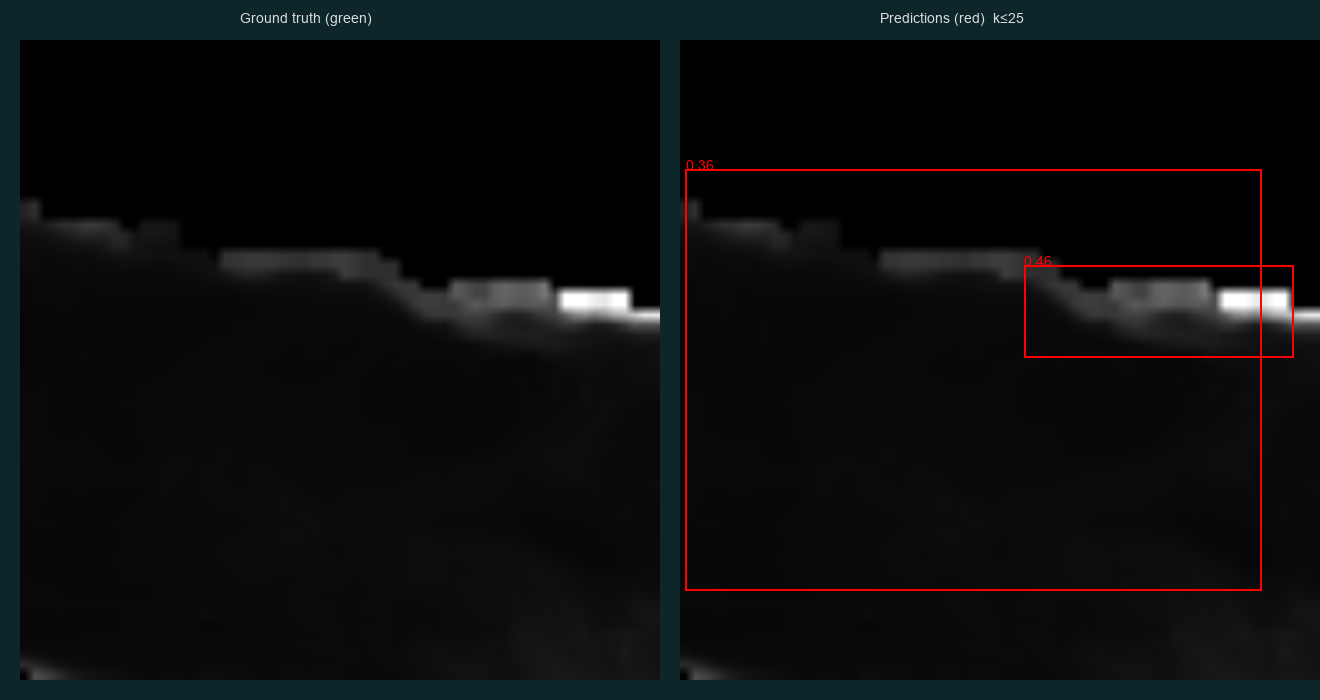
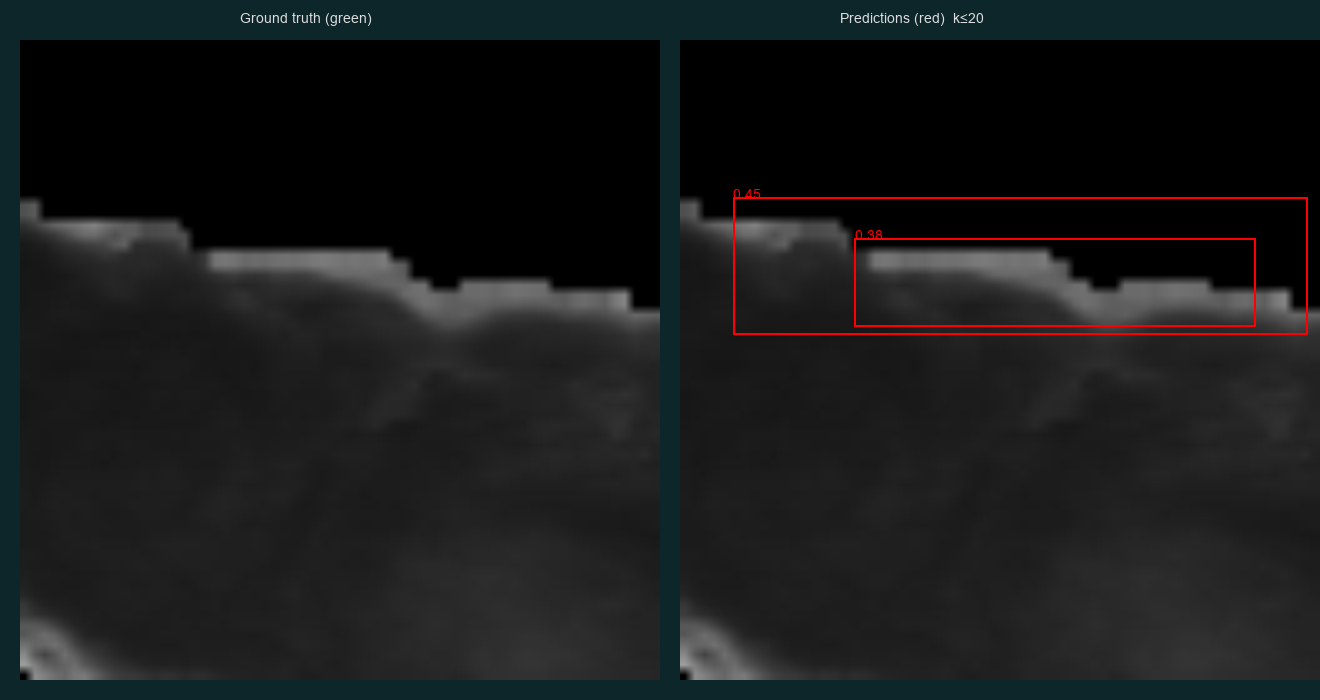
Fixed eval_ap and vis_preds scripts, ran visuals with FRCNN and MobileNet, need to do SSD training and compare all 3

diff --git a/src/torchvision_det/eval_ap.py b/src/torchvision_det/eval_ap.py
@@ -5,31 +5,26 @@ from pycocotools.coco import COCO
 from pycocotools.cocoeval import COCOeval
 from torch.utils.data import DataLoader
 
-from src.torchvision_det.mps_patch import *  # MPS -> CPU fallbacks for NMS/ROI
-from src.torchvision_det.ds_torchvision import HABDetDataset, collate_fn, ResizeWithBoxes
-
 os.environ.setdefault("PYTORCH_ENABLE_MPS_FALLBACK", "1")
+from src.torchvision_det.mps_patch import *  # MPS fallbacks
+from src.torchvision_det.ds_torchvision import HABDetDataset, collate_fn, ResizeWithBoxes
 
 def get_device():
     if torch.cuda.is_available(): return torch.device("cuda")
     if torch.backends.mps.is_available(): return torch.device("mps")
     return torch.device("cpu")
 
-# ----- build models EXACTLY like training (no custom anchors) -----
+# ---- build models exactly like training ----
 def build_frcnn_r50(num_classes=2):
     m = torchvision.models.detection.fasterrcnn_resnet50_fpn(weights=None)
     in_feats = m.roi_heads.box_predictor.cls_score.in_features
-    m.roi_heads.box_predictor = torchvision.models.detection.faster_rcnn.FastRCNNPredictor(
-        in_feats, num_classes
-    )
+    m.roi_heads.box_predictor = torchvision.models.detection.faster_rcnn.FastRCNNPredictor(in_feats, num_classes)
     return m
 
 def build_frcnn_mn(num_classes=2):
     m = torchvision.models.detection.fasterrcnn_mobilenet_v3_large_320_fpn(weights=None)
     in_feats = m.roi_heads.box_predictor.cls_score.in_features
-    m.roi_heads.box_predictor = torchvision.models.detection.faster_rcnn.FastRCNNPredictor(
-        in_feats, num_classes
-    )
+    m.roi_heads.box_predictor = torchvision.models.detection.faster_rcnn.FastRCNNPredictor(in_feats, num_classes)
     return m
 
 def build_ssd(num_classes=2):
@@ -44,7 +39,11 @@ def build_model_for_arch(arch: str):
     raise ValueError(f"Unknown arch {arch}")
 
 @torch.no_grad()
-def infer_to_coco(model, split='val', device='cpu', img_size=640):
+def infer_to_coco(model, coco_gt: COCO, split='val', device='cpu', img_size=640):
+    """
+    IMPORTANT: We run inference on resized images (img_size x img_size),
+    then scale predictions back to the original (w,h) from COCO GT.
+    """
     tfm = ResizeWithBoxes((img_size, img_size))
     ds = HABDetDataset(split, transforms=tfm, filter_empty=False)
     dl = DataLoader(ds, batch_size=1, shuffle=False, collate_fn=collate_fn, num_workers=0)
@@ -52,19 +51,38 @@ def infer_to_coco(model, split='val', device='cpu', img_size=640):
     results = []
     for imgs, targets in dl:
         img = imgs[0].to(device)
-        coco_img_id = int(targets[0]["image_id"].item())  # <- scalar tensor
+        coco_img_id = int(targets[0]["image_id"].item())
+        # original size from COCO GT
+        info = coco_gt.imgs[coco_img_id]
+        W0, H0 = float(info["width"]), float(info["height"])
+        # current (resized) size = img_size x img_size by our transform
+        sx = W0 / float(img_size)
+        sy = H0 / float(img_size)
+
         pred = model([img])[0]
-        boxes = pred.get('boxes', None)
+        boxes = pred.get("boxes")
         if boxes is None or boxes.numel() == 0:
             continue
-        boxes  = boxes.detach().cpu().tolist()
-        scores = pred['scores'].detach().cpu().tolist()
-        labels = pred['labels'].detach().cpu().tolist()
-        for (x1,y1,x2,y2), s, c in zip(boxes, scores, labels):
+
+        boxes  = boxes.detach().cpu()
+        scores = pred["scores"].detach().cpu().tolist()
+        labels = pred["labels"].detach().cpu().tolist()
+
+        # x1,y1,x2,y2 (resized space) -> scale back to original, then to COCO [x,y,w,h]
+        x1y1x2y2 = boxes.numpy()
+        x1y1x2y2[:, [0,2]] *= sx
+        x1y1x2y2[:, [1,3]] *= sy
+        xywh = []
+        for (x1, y1, x2, y2) in x1y1x2y2:
+            x, y = float(x1), float(y1)
+            w, h = float(max(0.0, x2 - x1)), float(max(0.0, y2 - y1))
+            xywh.append([x, y, w, h])
+
+        for b, s, c in zip(xywh, scores, labels):
             results.append({
                 "image_id": coco_img_id,
-                "category_id": int(c),
-                "bbox": [float(x1), float(y1), float(x2-x1), float(y2-y1)],
+                "category_id": int(c),     # should be 1 for HAB
+                "bbox": [float(v) for v in b],
                 "score": float(s)
             })
     return results
@@ -75,7 +93,7 @@ def main():
     ap.add_argument("--arch", type=str, required=True,
                     choices=["frcnn_resnet50","frcnn_mobilenet","ssd_mobilenet"])
     ap.add_argument("--split", type=str, default="val", choices=["train","val","test"])
-    ap.add_argument("--img_size", type=int, default=640)
+    ap.add_argument("--img_size", type=int, default=640, help="training resize used (640 for R50, 320 for MN/SSD)")
     args = ap.parse_args()
 
     dev = get_device()
@@ -84,17 +102,13 @@ def main():
     model.load_state_dict(state, strict=True)
     model.to(dev).eval()
 
-    results = infer_to_coco(model, split=args.split, device=dev, img_size=args.img_size)
-
     ann_path = Path("data/labels/coco") / f"instances_{args.split}.json"
     coco_gt = COCO(str(ann_path))
-
-    # Patch missing optional fields so loadRes doesn't KeyError
-    if "info" not in coco_gt.dataset:
-        coco_gt.dataset["info"] = {"description": "HAB tiles"}
-    if "licenses" not in coco_gt.dataset:
-        coco_gt.dataset["licenses"] = []
+    if "info" not in coco_gt.dataset: coco_gt.dataset["info"] = {"description": "HAB tiles"}
+    if "licenses" not in coco_gt.dataset: coco_gt.dataset["licenses"] = []
     coco_gt.createIndex()
+
+    results = infer_to_coco(model, coco_gt, split=args.split, device=dev, img_size=args.img_size)
 
     coco_dt = coco_gt.loadRes(results) if results else coco_gt.loadRes([])
     E = COCOeval(coco_gt, coco_dt, iouType="bbox")

diff --git a/src/plots/vis_preds.py b/src/plots/vis_preds.py
@@ -1,14 +1,17 @@
 # src/plots/vis_preds.py
 from __future__ import annotations
-import os, argparse, numpy as np, torch, torchvision
+import os
+os.environ.setdefault("PYTORCH_ENABLE_MPS_FALLBACK", "1")  # allow CPU fallback on Mac
+
+# --- import our patch FIRST so NMS is monkey-patched to CPU on MPS
+from src.torchvision_det.mps_patch import *  # noqa: F401,F403
+
+import argparse, numpy as np, torch, torchvision, time
 from pathlib import Path
 from PIL import Image, ImageDraw, ImageFont
-from torchvision.ops import nms
+from torchvision.ops import nms  # will be safe because of the patch above
 
-# Mac MPS safety (lets unsupported ops fall back to CPU)
-os.environ.setdefault("PYTORCH_ENABLE_MPS_FALLBACK", "1")
-
-from src.torchvision_det.ds_torchvision import HABDetDataset, ResizeWithBoxes, collate_fn
+from src.torchvision_det.ds_torchvision import HABDetDataset, ResizeWithBoxes
 
 def get_device():
     if torch.cuda.is_available(): return torch.device("cuda")
@@ -39,10 +42,8 @@ def infer_arch_from_path(p: Path) -> str:
     return "resnet50"
 
 def to_pil(img_t: torch.Tensor) -> Image.Image:
-    # img_t: CxHxW in [0,1]
     arr = (img_t.detach().cpu().numpy().transpose(1,2,0)*255).clip(0,255).astype(np.uint8)
-    if arr.shape[2] == 1:
-        arr = np.repeat(arr, 3, axis=2)
+    if arr.shape[2] == 1: arr = np.repeat(arr, 3, axis=2)
     return Image.fromarray(arr)
 
 def draw_boxes(draw: ImageDraw.ImageDraw, boxes, color, width=2, labels=None, font=None):
@@ -59,18 +60,24 @@ def main():
     ap.add_argument("--weights", required=True, type=str)
     ap.add_argument("--arch", default="", choices=["", "resnet50", "mobilenet", "ssd"])
     ap.add_argument("--split", default="val", choices=["train","val","test"])
-    ap.add_argument("--img_size", type=int, default=640)  # use 320 for SSD, 640 for FRCNN-R50
-    ap.add_argument("--score_thr", type=float, default=0.3)
-    ap.add_argument("--nms_iou", type=float, default=0.5)
-    ap.add_argument("--topk", type=int, default=20)
-    ap.add_argument("--outdir", type=str, default="runs/plots/vis")
+    ap.add_argument("--img_size", type=int, default=-1, help="-1 = auto by arch")
+    ap.add_argument("--score_thr", type=float, default=0.30)
+    ap.add_argument("--nms_iou",   type=float, default=0.50)
+    ap.add_argument("--topk",      type=int,   default=20)
+    ap.add_argument("--outdir",    type=str,   default="runs/plots/vis")
     args = ap.parse_args()
 
     wpath = Path(args.weights)
     arch = args.arch or infer_arch_from_path(wpath)
 
+    # auto pick a good image size
+    if args.img_size == -1:
+        img_size = 320 if arch in ("mobilenet","ssd") else 640
+    else:
+        img_size = args.img_size
+
     dev = get_device()
-    print(f"device: {dev} | arch: {arch} | weights: {wpath}")
+    print(f"device: {dev} | arch: {arch} | weights: {wpath} | img_size: {img_size}")
 
     # model + weights
     model = build_model(arch, num_classes=2).to(dev).eval()
@@ -78,55 +85,51 @@ def main():
     model.load_state_dict(state, strict=True)
 
     # dataset (resize + keep boxes consistent)
-    tfm = ResizeWithBoxes((args.img_size, args.img_size))
+    tfm = ResizeWithBoxes((img_size, img_size))
     ds = HABDetDataset(args.split, transforms=tfm, filter_empty=False)
 
     outdir = Path(args.outdir); outdir.mkdir(parents=True, exist_ok=True)
     try:
         font = ImageFont.truetype("Arial.ttf", 14)
-    except:
+    except Exception:
         font = None
 
-    # make side-by-side canvases
     for i in range(min(12, len(ds))):
         img_t, tgt = ds[i]
         pred = model([img_t.to(dev)])[0]
 
-        # Get boxes/scores and apply score-threshold + NMS + topK on CPU (safe on MPS)
-        boxes  = pred["boxes"].detach().cpu()
-        scores = pred["scores"].detach().cpu()
+        # pull to CPU before NMS (safe on MPS due to our patch)
+        boxes  = pred.get("boxes", torch.empty(0,4)).detach().to("cpu")
+        scores = pred.get("scores", torch.empty(0)).detach().to("cpu")
+
+        # threshold + NMS + topK
         keep = scores >= args.score_thr
         boxes, scores = boxes[keep], scores[keep]
         if len(boxes) > 0:
-            keep_nms = nms(boxes, scores, args.nms_iou)
+            keep_nms = nms(boxes, scores, args.nms_iou)  # patched to CPU on MPS
             boxes, scores = boxes[keep_nms], scores[keep_nms]
         if len(boxes) > args.topk:
             topk_idx = torch.topk(scores, args.topk).indices
             boxes, scores = boxes[topk_idx], scores[topk_idx]
 
-        # Compose side-by-side image
+        # compose side-by-side
         left  = to_pil(img_t)        # GT
         right = left.copy()          # Pred
         draw_gt   = ImageDraw.Draw(left)
         draw_pred = ImageDraw.Draw(right)
 
-        # draw ground truth in green
         if len(tgt["boxes"]) > 0:
             draw_boxes(draw_gt, tgt["boxes"].numpy(), color=(0,255,0), width=2, labels=None, font=font)
-
-        # draw predictions in red with scores
         if len(boxes) > 0:
             draw_boxes(draw_pred, boxes.numpy(), color=(255,0,0), width=2, labels=scores.tolist(), font=font)
 
-        # assemble side-by-side
-        W = left.width; H = left.height
+        W, H = left.width, left.height
         canvas = Image.new("RGB", (2*W + 40, H + 60), (12,38,41))
         canvas.paste(left,  (20, 40))
         canvas.paste(right, (W+40, 40))
-        # headings
         d = ImageDraw.Draw(canvas)
         d.text((W//2 - 80, 10), "Ground truth (green)", fill=(220,220,220), font=font)
-        d.text((W + W//2 - 80, 10), f"Predictions (red)  k≤{args.topk}", fill=(220,220,220), font=font)
+        d.text((W + W//2 - 120, 10), f"Predictions (red)  k≤{args.topk}", fill=(220,220,220), font=font)
 
         canvas.save(outdir / f"{arch}_{args.split}_{i:02d}.png")
 
